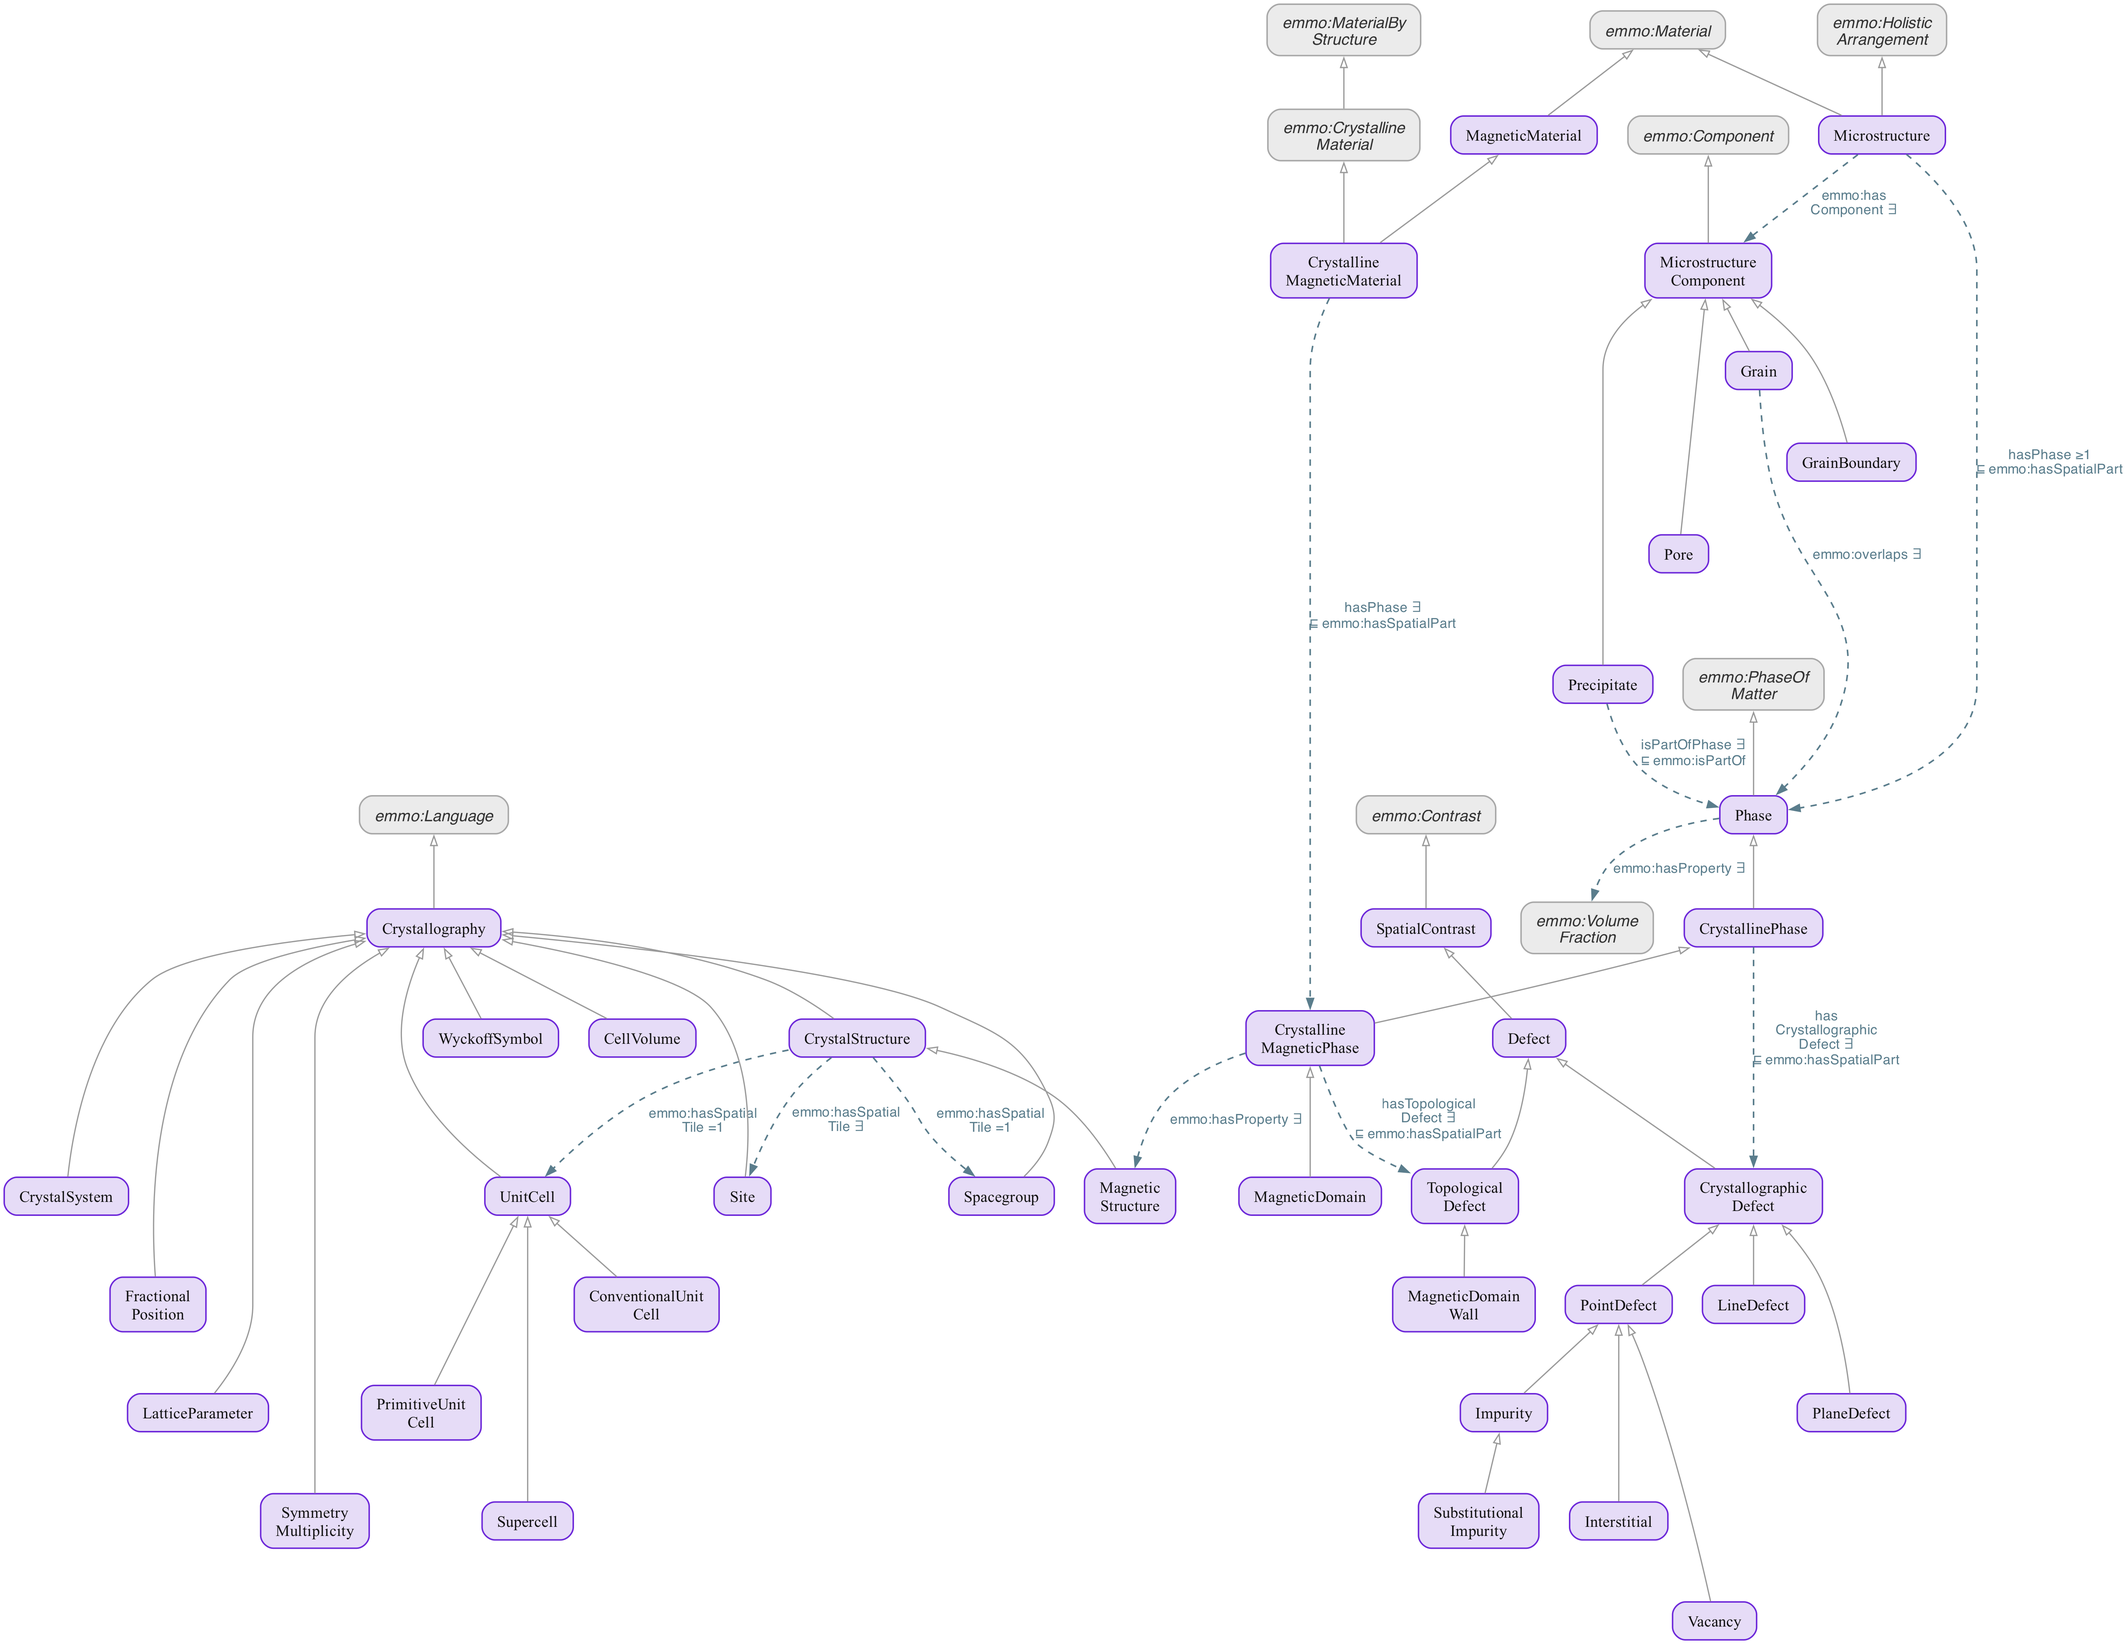
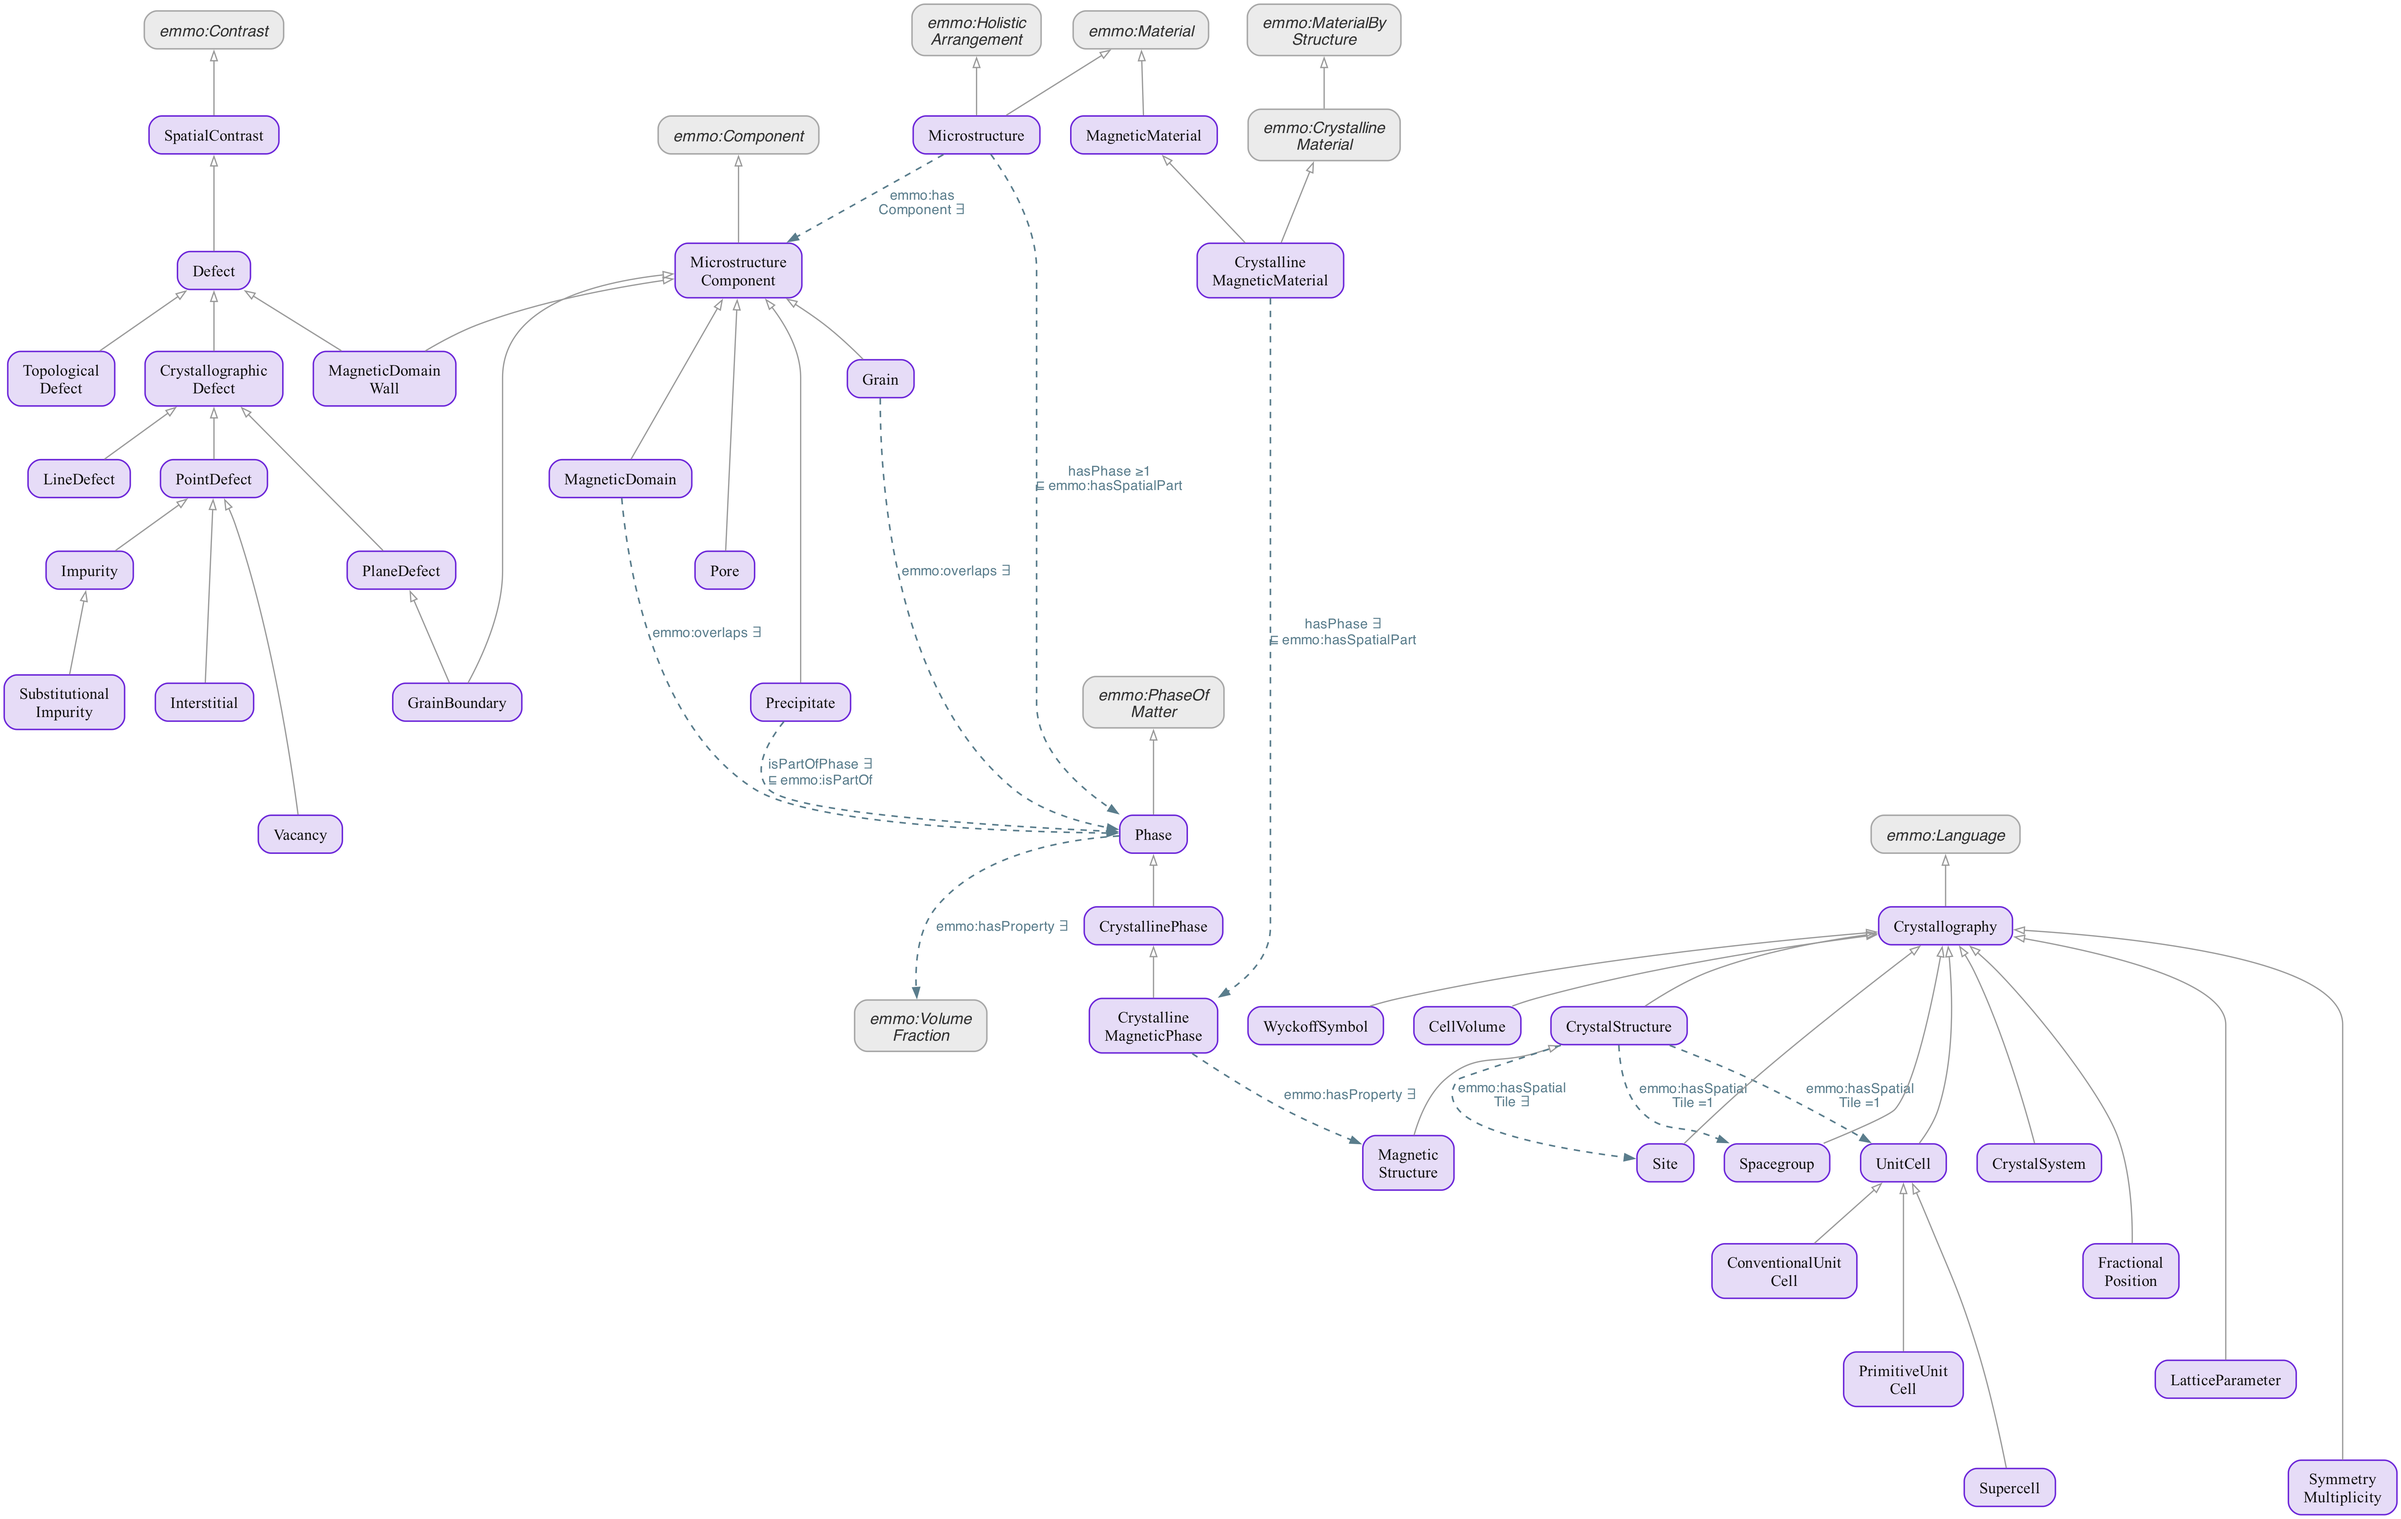
ontology: 按挑刺决议重挂磁畴、畴壁、晶界，新增 hasNominalComposition
- MagneticDomain：⊑ MicrostructureComponent ⊓ ∃overlaps.Phase，
  不再 ⊑ CrystallineMagneticPhase（J2、J5）
- MagneticDomainWall：⊑ Defect ⊓ MicrostructureComponent，不再
  ⊑ TopologicalDefect，释义去掉 topological（J10、J12）
- GrainBoundary：增加父类 PlaneDefect（J7）
- 删除 CrystallinePhase ⊑ ∃hasCrystallographicDefect 和
  CrystallineMagneticPhase ⊑ ∃hasTopologicalDefect（J3、K7）
- 新增 hasNominalComposition ⊑ emmo:hasChemicalComposition，
  range 为 emmo:TotalComposition（L3）
- rationale 订正和补记：CrystallinePhase、Grain、Phase、
  TopologicalDefect、hasSimulatedMaterial、MultiscaleSimulation
- README：补充微磁尺度的说明（I1）；material 的对象属性数改为 5

依据 docs/material-cross-ontology.md §6。改动未经 HermiT 实测。

diff --git a/README.md b/README.md
@@ -3,6 +3,9 @@
 **Computational Magnetic Materials Ontology**: an OWL 2 domain ontology aligned to
 [EMMO](https://emmo-repo.github.io/). It describes magnetic materials and the simulations
 performed on them at four length scales: electronic, atomistic, mesoscopic and continuum.
+Scales are assigned by the entities a model describes, following RoMM and OSMO. Micromagnetics
+treats the magnetisation as a continuous field, but it is classed as mesoscopic, as both
+sources do.
 
 Current version: **1.2.0**. Namespace: `https://w3id.org/emmo/domain/commagmo#`.
 It imports one upstream ontology, EMMO 1.0.4.
@@ -10,7 +13,7 @@ It imports one upstream ontology, EMMO 1.0.4.
 | File | Ontology IRI | Content |
 | --- | --- | --- |
 | [`ontology/commagmo.ttl`](ontology/commagmo.ttl) | `…/commagmo` | root: imports the two modules below |
-| [`ontology/material.ttl`](ontology/material.ttl) | `…/commagmo/material` | 38 classes, 4 object properties |
+| [`ontology/material.ttl`](ontology/material.ttl) | `…/commagmo/material` | 38 classes, 5 object properties |
 | [`ontology/simulation.ttl`](ontology/simulation.ttl) | `…/commagmo/simulation` | 48 classes, 15 object properties |
 | [`ontology/maps/`](ontology/maps/) | — | concept maps (`.dot` source + `.png`) |
 
